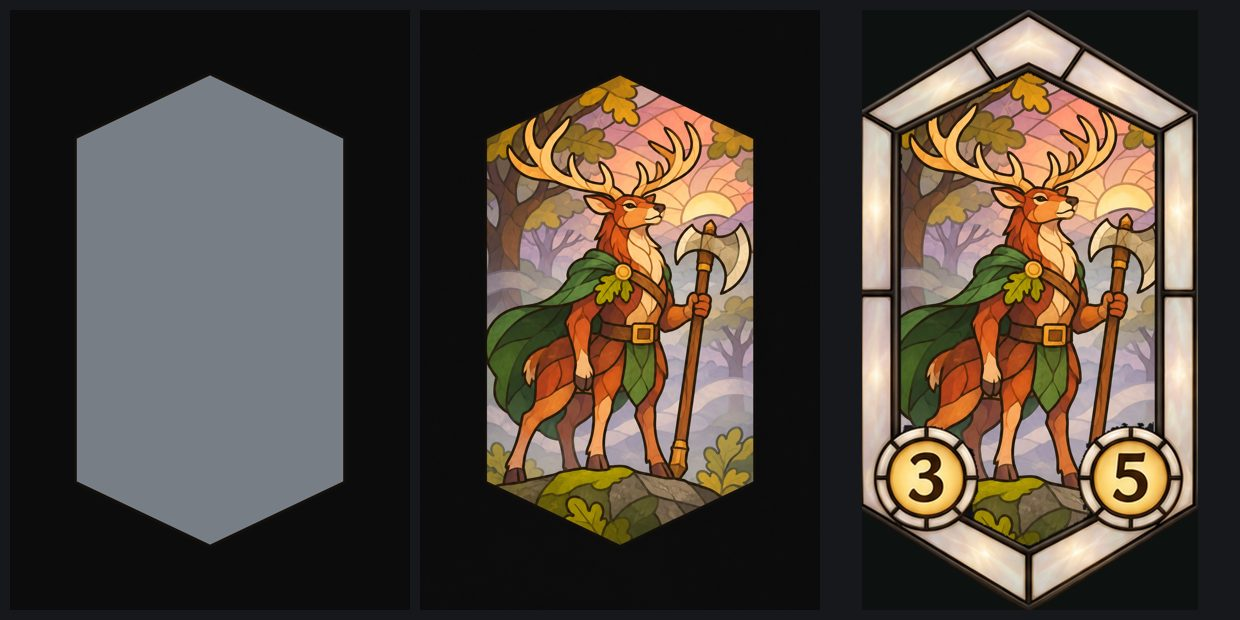
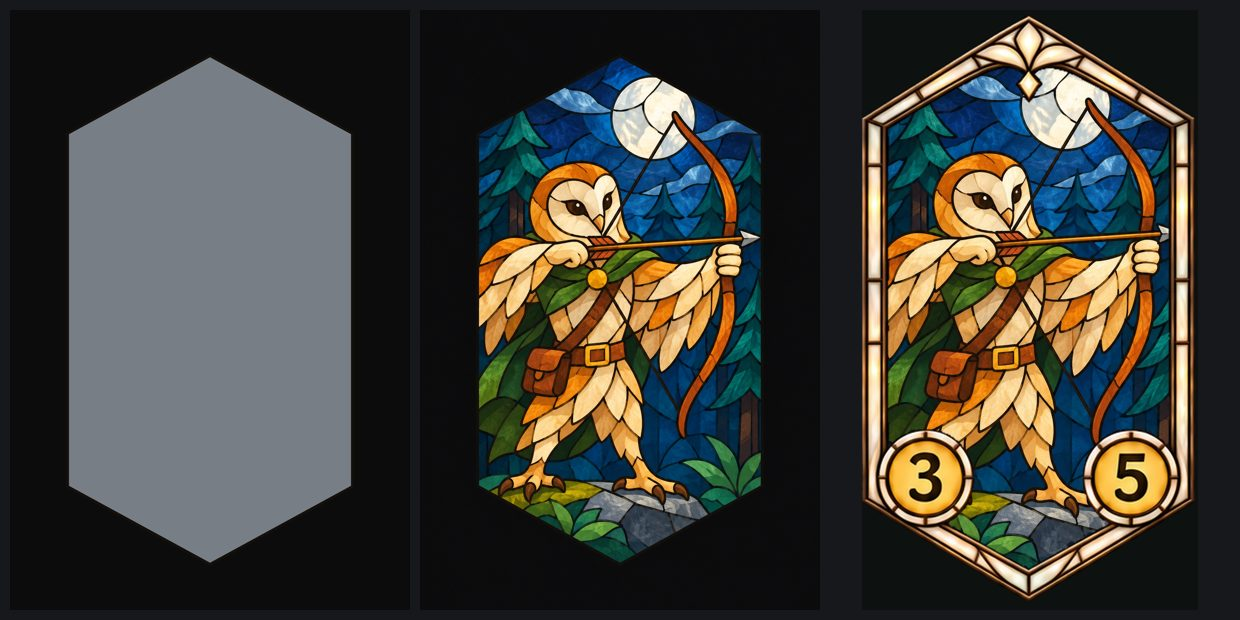
Recipe: art window and guide redrawn for the thin frames the owner locked
The thinner frames have a bigger window, so the shape guide is redrawn
(498 x 895 in card units, 4 units of bleed). A 24-picture run to the new
guide through the repo's runner held it within 7 px and assembled under
all six thin frames. Example pictures replaced; the process is unchanged.

diff --git a/tools/art/glass-art/make_guide.py b/tools/art/glass-art/make_guide.py
@@ -14,11 +14,12 @@ from PIL import Image, ImageDraw
 
 HERE = os.path.dirname(os.path.abspath(__file__))
 
-# The art window, in card units (card = 560 x 1000). Source: frame-lab/art-space.md. A working spec, not locked.
-WINDOW = [(280, 100), (501.2, 205), (501.2, 795), (280, 900), (58.8, 795), (58.8, 205)]
-# Extra art outside the window on every side, in card units. Codex returns the panel 3 to 9 canvas px small,
-# and the frames' borders are a few units thicker than spec in places; the frame hides the bleed.
-BLEED = 18
+# The art window, in card units (card = 560 x 1000): the window of the guide the thin frames were drawn to
+# (card frames session, 15 Nov 2026). The frames' drawn windows sit 12 or more units inside it on every tier,
+# so it already reaches under the border. A working spec, not locked.
+WINDOW = [(280, 52.5), (529.1, 188.4), (529.1, 811.6), (280, 947.5), (30.9, 811.6), (30.9, 188.4)]
+# A little extra on every side, in card units. Codex returns the panel within about 5 canvas px (3.5 units).
+BLEED = 4
 # Codex's portrait canvas, and where the card sits on it.
 CANVAS = (1024, 1536)
 SCALE = 1.44

diff --git a/docs/design/art-direction/card-art-recipe.md b/docs/design/art-direction/card-art-recipe.md
@@ -37,14 +37,14 @@ One line of agent wording is also out of date and is updated with this recipe: [
 
 | Piece | Where | What it is |
 |---|---|---|
-| Card and window | [frame-lab/art-space.md](frame-lab/art-space.md) | Card 560 × 1000 (0.56 wide to 1 tall). Window: a six-sided shape 442 × 800 inside it. |
+| Card and window | [frame-lab/art-space.md](frame-lab/art-space.md) | Card 560 × 1000 (0.56 wide to 1 tall). Art window: a six-sided shape 498 × 895 inside it, set in `make_guide.py`. (art-space.md describes the earlier, smaller window.) |
 | Shape guide | `tools/art/glass-art/guide.png` | A plain grey panel in the window's outline, on Codex's 1024 × 1536 canvas. Drawn by `make_guide.py`. |
 | Prompt | `tools/art/prompts/glass-art-window.txt` | The loose wording plus the list of subjects. |
 | Runner | `tools/art/run-codex-image.ps1` | Runs one batch through Codex with the guide attached. |
 | Check and assembly | `tools/art/glass-art/assemble.py` | Measures each picture against the guide and builds the cards. |
 | Frames | [frame-lab/final/](frame-lab/final/) | Six tier frames in card space, 1120 × 2000, window clear. |
 
-The guide is the window grown by 18 card units on every side. Codex returns the panel within about 5 pixels of the guide, sometimes smaller and sometimes larger, and the frames' borders are a few units thicker than the spec in places, so the art needs to reach a little way under the frame. The card sits on Codex's canvas at 1.44 times spec size with its top-left corner at (108.8, 48). The card frames session said on 15 November that it would use the same placement for its own outline guides; that has not been checked against its files.
+The art window is the window of the outline the thin frames were drawn to (the frames the owner locked on 15 November, after finding the first set, in words relayed by the card frames session, "too busy now that I see them on screen. We need to reduce the width"). The frames' drawn windows sit 12 or more card units inside it on every tier, so art made to it already reaches under the border. The guide adds 4 more units on every side, because Codex returns the panel within about 7 pixels of the guide, sometimes smaller and sometimes larger. The card sits on Codex's canvas at 1.44 times spec size with its top-left corner at (108.8, 48). The card frames session said on 15 November that it would use the same placement for its own outline guides; that has not been checked against its files.
 
 ## Steps
 
@@ -87,10 +87,13 @@ The guide is the window grown by 18 card units on every side. Codex returns the 
 | Art without a border, three ways | 54 | All three kept the quality. A border is not needed to get the look. |
 | Art to the window with the grey guide, six fighters, three runs | 18 | Every panel edge within 5 pixels of the guide's, from 2 outside it to 5 inside. The set includes night scenes, and the check read them correctly. |
 | The same with awkward subjects: a stag with wide antlers, a boar on all fours, a small mouse, an ooze, a fairy with wings spread, a spell | 18 | Every panel edge within 5 pixels, from 1 outside to 5 inside. All six made clear cards under all six tier frames. |
+| Art to the thin frames' bigger window: the six fighters and the six awkward subjects, two runs each, through the repo's runner | 24 | Every panel edge within 7 pixels of the guide's. No gaps seen under any of the six thin frames on the sheet below. |
 
-The steps above were then run once exactly as written, through the repo's runner and `assemble.py`, for a fighter not used before (a heron). The panel came back within 1 pixel of the guide and the cards assembled with no changes.
+The two 18-picture tests were made to an earlier, smaller window, for thicker frames that have since been replaced. The 24-picture test uses the window and frames described here.
 
-Six of the awkward subjects under all six frames, tier 1 at the top:
+The steps above were also run once exactly as written, through the repo's runner and `assemble.py`, for a fighter not used before (a heron). The panel came back within 1 pixel of the guide and the cards assembled with no changes.
+
+Six pictures from the 24-picture test under all six thin frames, tier 1 at the top:
 
 ![Six pictures under each of the six tier frames](examples/glass-art-tiers.jpg)
 
@@ -102,6 +105,6 @@ The full sets are on the Optiplex under `/data/bramble-art/stained-glass/` (`loo
 - **The frames are soft.** They were cut from a small sheet and enlarged about 3.6 times. A clean redraw at full size is the card frames session's next step.
 - **Attack and Health are painted into the frames** for now. In the game they will be live numbers on the roundels.
 - **The roundels cover the lower corners.** Feet and tails often sit behind them. The two discs could be added to the guide so Codex keeps clear of them.
-- **Higher tiers cover the window's top and bottom points.** At tier 6 the top of the window sits about 5% of the card's height lower than at tier 1, and the bottom about 8% higher. Things placed at the very top of a picture can be covered.
+- **The top accent covers the middle of the window's top edge on every tier.** A small diamond hangs down to about 15% of the card's height at the centre. Something placed at the very top centre of a picture sits behind it.
 - **A large set has not been made.** The most made in one look is 18. Colour strength varies a little between runs, and that may show across a hundred cards.
 - **Not judged at game size on the real screen.**
